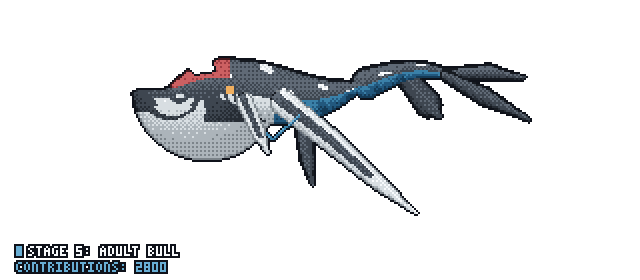
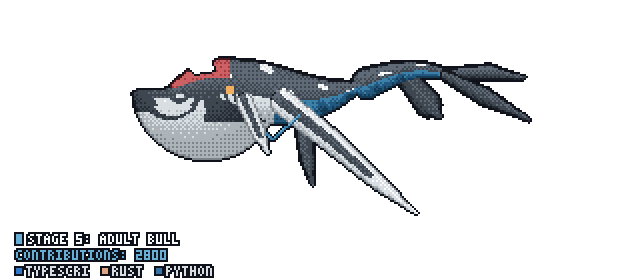
docs: regenerate showcase assets with Stage 4 Mature Tulkun and 3-language HUD

Changed region(s): [[0.0, 0.8286, 0.3438, 1.0]]

diff --git a/docs/stage4-mature/preview.html b/docs/stage4-mature/preview.html
@@ -1,0 +1,35 @@
+<!doctype html>
+<html lang="en">
+<head>
+<meta charset="utf-8">
+<meta name="viewport" content="width=device-width, initial-scale=1">
+<title>git-tulkun preview</title>
+<style>
+  body { margin: 0; font: 14px/1.5 -apple-system, BlinkMacSystemFont, "Segoe UI", Helvetica, Arial, sans-serif; }
+  h1, h2 { margin: 0; font-size: 14px; font-weight: 600; }
+  header, section { display: grid; gap: 12px; padding: 16px; }
+  .light { background: #ffffff; color: #1f2328; }
+  .dark { background: #0d1117; color: #f0f6fc; }
+  .images { display: flex; flex-wrap: wrap; gap: 16px; }
+  figure { margin: 0; }
+  img { display: block; max-width: 100%; height: auto; image-rendering: pixelated; }
+</style>
+</head>
+<body>
+<header class="dark"><h1>@demo-user - Mature Tulkun (Sloped Sensor Crest) (1750 contributions)</h1></header>
+<section class="dark">
+<h2>GitHub Dark Mode</h2>
+<div class="images">
+<figure><img src="tulkun.gif" width="640" height="280" alt="The Tulkun swimming"><figcaption>tulkun.gif (Animated 15 FPS)</figcaption></figure>
+<figure><img src="tulkun.png" width="640" height="280" alt="The Tulkun still"><figcaption>tulkun.png (Static Still)</figcaption></figure>
+</div>
+</section>
+<section class="light">
+<h2>GitHub Light Mode</h2>
+<div class="images">
+<figure><img src="tulkun.gif" width="640" height="280" alt="The Tulkun swimming"><figcaption>tulkun.gif (Animated 15 FPS)</figcaption></figure>
+<figure><img src="tulkun.png" width="640" height="280" alt="The Tulkun still"><figcaption>tulkun.png (Static Still)</figcaption></figure>
+</div>
+</section>
+</body>
+</html>
